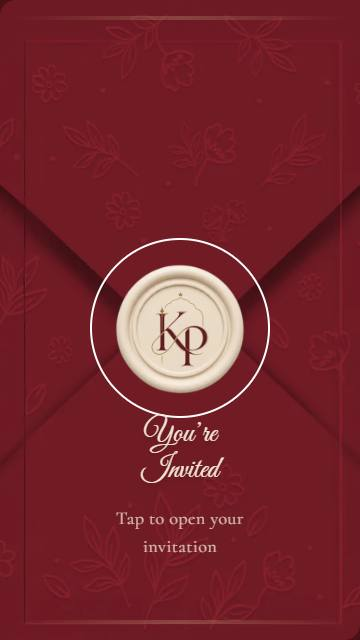
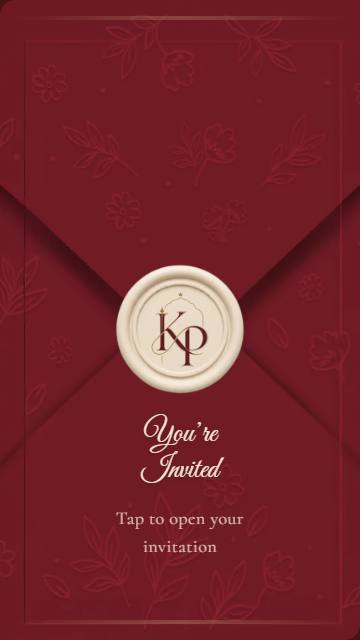
Sage Envelope gate: no focus ring on load; keyboard ring hugs the seal

diff --git a/src/templates/sageenvelope/gate.css b/src/templates/sageenvelope/gate.css
@@ -57,7 +57,9 @@
 .gate-sageenvelope .gate-sageenvelope__seal img { display: block; width: 100%; height: 100%; object-fit: contain; }
 /* The monogram sits on the seal's inner disc: seal.webp's disc is centred at 50.5% of its height, ~37% across. */
 .gate-sageenvelope .gate-sageenvelope__seal .gate-sageenvelope__logo { position: absolute; top: 50.5%; left: 50%; width: 35%; height: 35%; translate: -50% -50%; }
-.gate-sageenvelope .gate-sageenvelope__seal:focus-visible { outline: 2px solid #fff; outline-offset: -24px; }
+/* Not focused on load (an autofocused seal drew this ring for touch users too); for keyboard users the ring
+   hugs the wax: seal.webp's disc starts ~21.5% in from the button's edge. */
+.gate-sageenvelope .gate-sageenvelope__seal:focus-visible { outline: 2px solid #fff; outline-offset: calc(min(296px, 35dvh) * -0.2); }
 .gate-sageenvelope .gate-sageenvelope__seal:active { transform: scale(0.95); }
 
 /* Shrink-to-fit from the centre line, as the original does: "Tap to open your invitation" wraps onto two lines. */

diff --git a/src/templates/sageenvelope/Gate.jsx b/src/templates/sageenvelope/Gate.jsx
@@ -21,7 +21,7 @@ export default function Gate({ invite, onOpen, onDone }) {
       <span className="gate-sageenvelope__corner gate-sageenvelope__corner--br" aria-hidden="true">🌿</span>
       <div className="gate-sageenvelope__stage">
         <img className="gate-sageenvelope__envelope" src={art('envelope')} alt="" />
-        <button type="button" className="gate-sageenvelope__seal" data-gate-primary onClick={trigger} disabled={opening} autoFocus aria-label="Tap to open your invitation">
+        <button type="button" className="gate-sageenvelope__seal" data-gate-primary onClick={trigger} disabled={opening} aria-label="Tap to open your invitation">
           <img src={art('seal')} alt="" />
           <img className="gate-sageenvelope__logo" src={art('logo')} alt="" />
         </button>
